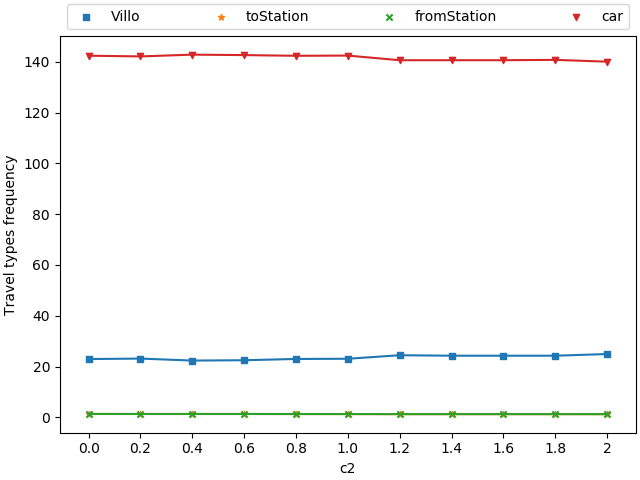
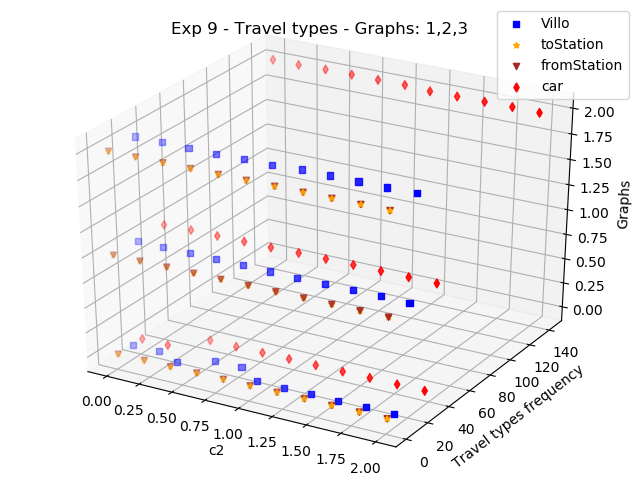
exp9 - plot modalities repartition bars + 3D

diff --git a/version_py/Visualization.py b/version_py/Visualization.py
@@ -172,7 +172,7 @@ def plotImprovementsExp7(filename, title, ylabel, xlabel, ymetric, graph, save_f
     show("upper right", title, ylabel, xlabel, save_filename)
 
 
-def plotExp7ModalitiesLines(filename, title, ylabel, xlabel, graph, categories, algo, save_filename):
+def plotExp7ModalitiesBars(filename, title, ylabel, xlabel, graph, categories, algo, save_filename):
     stats = getJsonData(filename)
 
     fig = plt.figure()
@@ -190,18 +190,12 @@ def plotExp7ModalitiesLines(filename, title, ylabel, xlabel, graph, categories, 
                     percentage = (travel_types[mod] * 100) / tot
                     avg_percentage += percentage / len(ADDED_EDGES)
 
-            # in log scale
-            # z = 0
-            # if avg_percentage != 0:
-            #     z = math.log(avg_percentage)
-            # y.append(z)
             y.append(avg_percentage)
 
         # scatter points
         plt.bar(x, y, width=0.2)
         m += 1
 
-    # plt.yscale('log')
     # show
     # plt.legend(bbox_to_anchor=(0, 1, 1, 0), loc="lower left", mode="expand", ncol=4)
     plt.legend(categories, loc="center right")
@@ -270,6 +264,70 @@ def plotModalitiesLines(filename, title, ylabel, xlabel, graph, categories, algo
 
     # show
     plt.legend(bbox_to_anchor=(0, 1, 1, 0), loc="lower left", mode="expand", ncol=4)
+    show(None, "", ylabel, xlabel, save_filename)
+
+
+def plotModalitiesLines3D(filename, title, ylabel, xlabel, kept_graphs, categories, algo, xmetric, save_filename):
+    stats = getJsonData(filename)
+    fig = plt.figure()
+    ax = fig.add_subplot(111, projection='3d')
+
+    colors = {"Villo": "blue", "toStation": "orange", "fromStation": "brown", "car": "red"}
+    markers = {"Villo": "s", "toStation": "*", "fromStation": "v", "car": "d"}
+    v = 0
+    for g in kept_graphs:
+        graph = GRAPHS[g]
+        for t in categories:
+            x, y = [], []
+            for k in stats[graph]["stats"]:
+                x.append(stats[graph]["stats"][k][xmetric])
+                if t not in stats[graph]["stats"][k][algo]["avg_travel_types"]:
+                    y.append(0)
+                else:
+                    y.append(stats[graph]["stats"][k][algo]["avg_travel_types"][t])
+            z = [v for _ in range(len(x))]
+
+            ax.scatter(xs=x, ys=y, zs=z, marker=markers[t], c=colors[t])
+
+        v += 1
+
+    ax.set_zlabel("Graphs")
+    ax.legend(["Villo", "toStation", "fromStation", "car"], loc="best")
+    show(None, title, ylabel, xlabel, save_filename)
+
+
+def plotPrefModalitiesBars(filename, title, ylabel, xlabel, graph, categories, algo, xmetric, save_filename):
+    stats = getJsonData(filename)
+
+    cols = ["cyan", "g", "r", "b"]
+
+    fig = plt.figure()
+    ax = fig.add_subplot(111)
+
+    data = []
+    for t in categories:
+        subdata = []
+        for k in stats[graph]["stats"]:
+            percentage = 0
+            travel_types = stats[graph]["stats"][k][algo]["avg_travel_types"]
+            tot = sum(travel_types.values())
+            if t in travel_types:
+                percentage = (travel_types[t] * 100) / tot
+            subdata.append(percentage)
+        data.append(subdata)
+
+    # show multiple bars
+    c = 0
+    shift = 0.00
+    for d in data:
+        x = np.arange(len(d))
+        ax.bar(x + shift, d, color=cols[c], width=0.25)
+        shift += 0.25
+        c += 1
+
+    # show
+    ax.legend(labels=categories)
+    # plt.legend(bbox_to_anchor=(0, 1, 1, 0), loc="lower left", mode="expand", ncol=4)
     show(None, "", ylabel, xlabel, save_filename)
 
 
@@ -555,11 +613,11 @@ def plotExp7(metrics, improvements, graphs):
 
         # plot modalities lines :
         save_filename = getFileExpPath(7, "plot_modalities_" + graph + ".png")
-        plotExp7ModalitiesLines(getFileExpPath(7, "exp7_all_stats.json"),
-                                "Exp 7 -Modalities repartition - " + graph,
-                                "Percentage", "Speeds",
-                                graph, FOOT_PUBLIC_TRANSPORT,
-                                "ALT", save_filename)
+        plotExp7ModalitiesBars(getFileExpPath(7, "exp7_all_stats.json"),
+                               "Exp 7 -Modalities repartition - " + graph,
+                               "Percentage", "Speeds",
+                               graph, FOOT_PUBLIC_TRANSPORT,
+                               "ALT", save_filename)
 
 
 # ====================================================
@@ -617,25 +675,37 @@ def plotExp9(metrics, kept_graphs):
                           metrics[metric], "c2", "c2", metric,
                           kept_graphs, save_filename)
 
-    # save_filename = getFileExpPath(9, "plot_prepro_{0}.png".format(graphs))
-    # plotPrefExpResult(getFileExpPath(9, "exp9_all_stats.json"),
-    #                   "Exp 9 - Preprocessing - Graphs: " + graphs,
-    #                   "Preprocessing time (sec.)", "c2", "c2", "lm_dists_CT",
-    #                   kept_graphs, save_filename)
+    save_filename = getFileExpPath(9, "plot_prepro_{0}.png".format(graphs))
+    plotPrefExpResult(getFileExpPath(9, "exp9_all_stats.json"),
+                      "Exp 9 - Preprocessing - Graphs: " + graphs,
+                      "Preprocessing time (sec.)", "c2", "c2", "lm_dists_CT",
+                      kept_graphs, save_filename)
 
-    # plot max avg lb
     save_filename = getFileExpPath(9, "plot_max_avg_lb_{0}.png".format(graphs))
     plotPrefExpResult(getFileExpPath(9, "exp9_all_stats.json"),
                       "Exp 9 - Max avg lower bound - Graphs: " + graphs,
                       "Max avg dist lb", "c2", "c2", "max_avg_lb",
                       kept_graphs, save_filename)
 
+    # for graph in kept_graphs:
+    #     save_filename = getFileExpPath(9, "plot_modalities_{0}.png".format(graphs))
+    #     plotModalitiesLines(getFileExpPath(9, "exp9_all_stats.json"),
+    #                         "Exp 9 - Travel types - " + str(graph + 1),
+    #                         "Travel types frequency", "c2", GRAPHS[graph],
+    #                         CAR_VILLO, "ALT", "c2", save_filename)
+
+    save_filename = getFileExpPath(9, "plot_modalities_{0}.png".format(graphs))
+    plotModalitiesLines3D(getFileExpPath(9, "exp9_all_stats.json"),
+                          "Exp 9 - Travel types - Graphs: " + graphs,
+                          "Travel types frequency", "c2", kept_graphs,
+                          CAR_VILLO, "ALT", "c2", save_filename)
+
     for graph in kept_graphs:
-        save_filename = getFileExpPath(9, "plot_modalities_{0}.png".format(graphs))
-        plotModalitiesLines(getFileExpPath(9, "exp9_all_stats.json"),
-                            "Exp 9 - Travel types - " + str(graph + 1),
-                            "Travel types frequency", "c2", GRAPHS[graph],
-                            CAR_VILLO, "ALT", "c2", save_filename)
+        save_filename = getFileExpPath(9, "plot_modalitiesBars_{0}.png".format(str(graph+1)))
+        plotPrefModalitiesBars(getFileExpPath(9, "exp9_all_stats.json"),
+                               "Exp 9 - Modalities repartition - bars - Graph " + str(graph+1),
+                               "Percentage", "c2", GRAPHS[graph],
+                               CAR_VILLO, "ALT", "c2", save_filename)
 
 
 # ====================================================
@@ -701,31 +771,23 @@ def launchPlotExp(metrics, improvements, exp):
 
 
 def testPlot3D():
-    # creating an empty canvas
+    np.random.seed(42)
+
+    ages = np.random.randint(low=8, high=30, size=35)
+    heights = np.random.randint(130, 195, 35)
+    weights = np.random.randint(30, 160, 35)
+    gender_labels = np.random.choice([0, 1], 35)  # 0 for male, 1 for female
+
     fig = plt.figure()
+    ax = fig.add_subplot(111, projection='3d')
 
-    # defining the axes with the projection
-    # as 3D so as to plot 3D graphs
-    ax = plt.axes(projection="3d")
+    ax.scatter(xs=heights, ys=weights, zs=ages, c=gender_labels)
 
-    # creating a wide range of points x,y,z
-    x = [0, 1, 2, 3, 4, 5, 6]
-    y = [0, 1, 4, 9, 16, 25, 36]
-    z = [0, 1, 4, 9, 16, 25, 36]
+    ax.set_title("Age-wise body weight-height distribution")
+    ax.set_xlabel("Height (cm)")
+    ax.set_ylabel("Weight (kg)")
+    ax.set_zlabel("Age (years)")
 
-    # plotting a 3D line graph with X-coordinate,
-    # Y-coordinate and Z-coordinate respectively
-    ax.plot3D(x, y, z, 'red')
-
-    # plotting a scatter plot with X-coordinate,
-    # Y-coordinate and Z-coordinate respectively
-    # and defining the points color as cividis
-    # and defining c as z which basically is a
-    # defination of 2D array in which rows are RGB
-    # or RGBA
-    ax.scatter3D(x, y, z, c=z, cmap='cividis')
-
-    # Showing the above plot
     plt.show()
 
 
@@ -743,6 +805,30 @@ def multipleXticks():
     plt.show()
 
 
+def testMultipleBars():
+    data = [[30, 25, 50, 20, 2, 8],
+            [40, 23, 51, 17, 5, 9],
+            [35, 22, 45, 19, 7, 7]]
+    X = np.arange(6)
+    print(X)
+    fig = plt.figure()
+    ax = fig.add_axes([0, 0, 1, 1])
+    ax.bar(X + 0.00, data[0], color='b', width=0.25)
+    ax.bar(X + 0.25, data[1], color='g', width=0.25)
+    ax.bar(X + 0.50, data[2], color='r', width=0.25)
+
+    ax.set_xticks(X, ('G1', 'G2', 'G3', 'G4', 'G5', 'G6'))
+    plt.show()
+
+def testSingleBar():
+    fig = plt.figure()
+    ax=fig.add_subplot(111)
+    langs = ['C', 'C++', 'Java', 'Python', 'PHP']
+    students = [23, 17, 35, 29, 12]
+    ax.bar(langs, students)
+    plt.show()
+
+
 def main():
     metrics = {"avg_QT": "avg QT (sec.)",
                "avg_RS": "avg relaxed space size",
@@ -755,7 +841,8 @@ def main():
     launchPlotExp(metrics, improvements, EXPERIMENT_PLOT)
     # multipleXticks()
     # testPlot3D()
-
+    # testMultipleBars()
+    # testSingleBar()
 
 if __name__ == "__main__":
     main()
